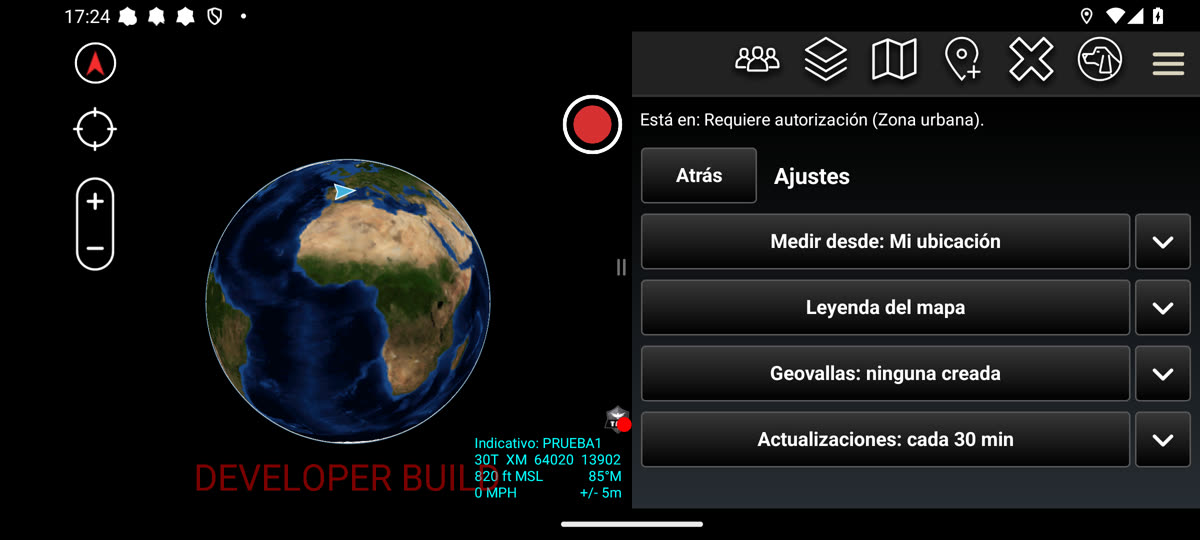
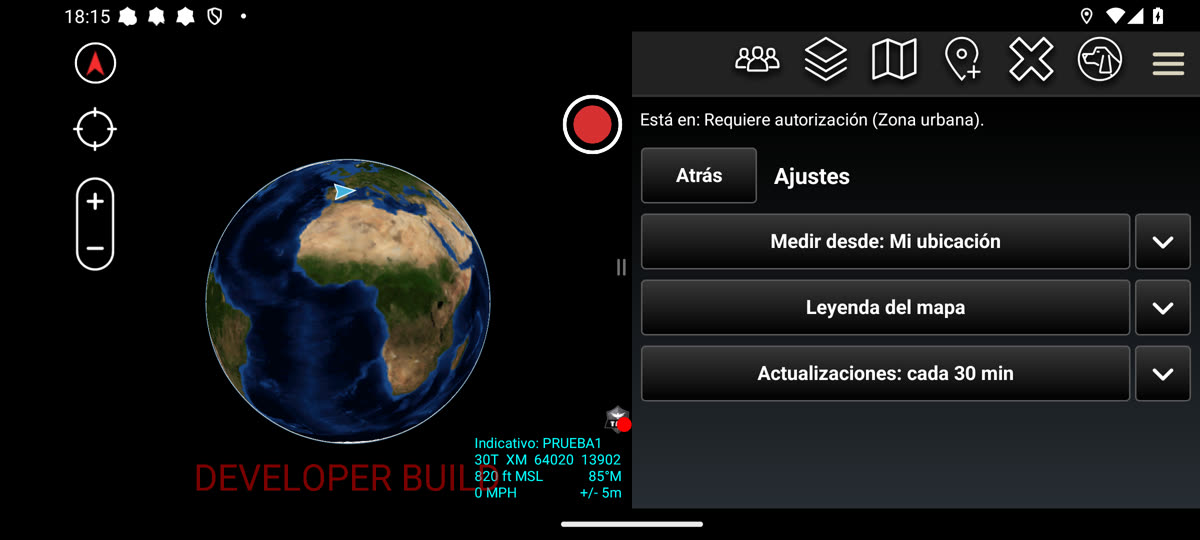
Ocultar geovallas (no hay capa española que las cree) y quitarlas de la documentación; README con formato tak.gov

diff --git a/app/src/main/java/com/carlosgt/atak/aerozona/ui/TfrPane.java b/app/src/main/java/com/carlosgt/atak/aerozona/ui/TfrPane.java
@@ -157,6 +157,13 @@ public class TfrPane implements TfrManager.Listener {
 
         fencesFold = new Fold(settings, R.id.fold_fences_head, R.id.fold_fences_chev,
                 R.id.fold_fences_body, "fold.fences");
+        // AeroZona 1.0: geofences were made from FAA TFR details, which are retired, and
+        // no Spanish layer offers one yet, so the row would only ever say "none".
+        for (int id : new int[] { R.id.fold_fences_row, R.id.fold_fences_body }) {
+            final View v = settings.findViewById(id);
+            if (v != null)
+                v.setVisibility(View.GONE);
+        }
         fromFold = new Fold(settings, R.id.fold_from_head, R.id.fold_from_chev,
                 R.id.fold_from_body, "fold.from");
         keyFold = new Fold(settings, R.id.fold_key_head, R.id.fold_key_chev,

diff --git a/docs/USER_GUIDE.md b/docs/USER_GUIDE.md
@@ -23,12 +23,11 @@ All releases: https://github.com/carlosgt91/aerozona/releases
   - [8. Condiciones METAR](#8-condiciones-metar)
   - [9. Meteorología AEMET](#9-meteorología-aemet)
   - [10. Ajustes del panel](#10-ajustes-del-panel)
-  - [11. Geovallas de alerta](#11-geovallas-de-alerta)
-  - [12. Plan de vuelo UAS](#12-plan-de-vuelo-uas)
-  - [13. Ajustes del planificador](#13-ajustes-del-planificador)
-  - [14. ENAIRE, AESA y tramitación](#14-enaire-aesa-y-tramitación)
-  - [15. Operación sin datos o sin red](#15-operación-sin-datos-o-sin-red)
-  - [16. Avisos y fuentes oficiales](#16-avisos-y-fuentes-oficiales)
+  - [11. Plan de vuelo UAS](#11-plan-de-vuelo-uas)
+  - [12. Ajustes del planificador](#12-ajustes-del-planificador)
+  - [13. ENAIRE, AESA y tramitación](#13-enaire-aesa-y-tramitación)
+  - [14. Operación sin datos o sin red](#14-operación-sin-datos-o-sin-red)
+  - [15. Avisos y fuentes oficiales](#15-avisos-y-fuentes-oficiales)
 - [English](#english)
   - [1. Overview](#1-overview)
   - [2. Before You Start](#2-before-you-start)
@@ -40,12 +39,11 @@ All releases: https://github.com/carlosgt91/aerozona/releases
   - [8. METAR Conditions](#8-metar-conditions)
   - [9. AEMET Weather](#9-aemet-weather)
   - [10. Panel Settings](#10-panel-settings)
-  - [11. Alert Geofences](#11-alert-geofences)
-  - [12. UAS Flight Plan](#12-uas-flight-plan)
-  - [13. Planner Settings](#13-planner-settings)
-  - [14. ENAIRE, AESA and Coordination](#14-enaire-aesa-and-coordination)
-  - [15. Missing Data and Offline Operation](#15-missing-data-and-offline-operation)
-  - [16. Official Sources and Legal Notices](#16-official-sources-and-legal-notices)
+  - [11. UAS Flight Plan](#11-uas-flight-plan)
+  - [12. Planner Settings](#12-planner-settings)
+  - [13. ENAIRE, AESA and Coordination](#13-enaire-aesa-and-coordination)
+  - [14. Missing Data and Offline Operation](#14-missing-data-and-offline-operation)
+  - [15. Official Sources and Legal Notices](#15-official-sources-and-legal-notices)
 
 ---
 
@@ -167,21 +165,12 @@ Accesible desde el botón **Ajustes** del panel principal:
 
 - **Medir desde:** calcula distancias y la línea «Está en:» desde su posición GPS o desde un punto designado en el mapa.
 - **Leyenda del mapa:** relación completa de colores y símbolos activos en cartografía.
-- **Geovallas:** gestión y comprobación de alertas perimetrales creadas.
 - **Actualizaciones:** frecuencia de renovación en segundo plano de restricciones y datos meteorológicos.
 
 ---
 
-### 11. Geovallas de alerta
 
-- **Creación desde la ficha.** Puede activar una geovalla en ATAK desde la ficha de cualquier zona o restricción para recibir avisos al franquear sus límites.
-- **Límites publicados.** Permite ceñirse a las altitudes publicadas de la zona o establecer la alerta sobre la proyección en el suelo con independencia de la altitud.
-- **Copia estática puntual.** La geovalla es una copia fija del contorno en el instante en que se crea. Si la restricción cambia de horario o expira, la geovalla permanece en ATAK hasta que usted la elimine.
-- **Gestión en Ajustes.** En *Ajustes > Geovallas* se listan las geovallas activas y el sistema avisa si alguna ya no coincide con una restricción vigente, ofreciendo un botón para retirarla rápidamente.
-
----
-
-### 12. Plan de vuelo UAS
+### 11. Plan de vuelo UAS
 
 ![Planificador de vuelo UAS y análisis de terreno](user_manual/az/plan.jpg)
 
@@ -196,7 +185,7 @@ Pantalla propia abierta desde el botón **Plan de vuelo UAS**. Responde a dos cu
 
 ---
 
-### 13. Ajustes del planificador
+### 12. Ajustes del planificador
 
 ![Ajustes del planificador de vuelo](user_manual/az/plan_ajustes.jpg)
 
@@ -210,7 +199,7 @@ Todos los valores configurados se conservan entre sesiones sin necesidad de cone
 
 ---
 
-### 14. ENAIRE, AESA y tramitación
+### 13. ENAIRE, AESA y tramitación
 
 ![Tramitación oficial ENAIRE y AESA](user_manual/az/plan_enaire.jpg)
 
@@ -224,7 +213,7 @@ El botón **ENAIRE / AESA** conecta con las plataformas oficiales:
 
 ---
 
-### 15. Operación sin datos o sin red
+### 14. Operación sin datos o sin red
 
 - **Sin datos de elevación (DTED).** El planificador lee los modelos de elevación DTED alojados en ATAK. Si faltan datos en la zona, el complemento lo advierte abiertamente y deja el terreno sin pintar, evitando calcular techos irreales sin datos. Cargue la cartografía DTED para habilitar el análisis de relieve.
 - **Sin conexión de red.** Las zonas UAS y el espacio aéreo descargados permanecen 7 días en memoria. Si una consulta falla o no hay señal, el mapa no se borra.
@@ -232,7 +221,7 @@ El botón **ENAIRE / AESA** conecta con las plataformas oficiales:
 
 ---
 
-### 16. Avisos y fuentes oficiales
+### 15. Avisos y fuentes oficiales
 
 - **Carácter consultivo.** Los datos mostrados reflejan la información pública en el momento de su descarga. No sustituyen los avisos aeronáuticos oficiales, el AIP ni las autorizaciones de coordinación con proveedores ATS o AESA.
 - **Fuentes oficiales:** AIP España, ENAIRE Drones (`drones.enaire.es`), Ícaro XXI para NOTAM y portal de AESA (`seguridadaerea.gob.es`).
@@ -359,21 +348,12 @@ Accessed from the **Settings** ("Ajustes") button on the main pane:
 
 - **Measure from** ("Medir desde"): calculates distances and the "Está en:" status line from your GPS position or a selected map coordinate.
 - **Map key** ("Leyenda del mapa"): index of all active colors and layer symbols.
-- **Geofences** ("Geovallas"): oversee and manage active boundary alerts.
 - **Updates** ("Actualizaciones"): configure background refresh frequencies for restrictions and weather data.
 
 ---
 
-### 11. Alert Geofences
 
-- **Creation from details.** Create an ATAK geofence directly from any zone or restriction details sheet to trigger proximity alerts when crossing boundaries.
-- **Published limits.** Geofences can conform to published altitude floors and ceilings, or alert on ground footprint regardless of flight level.
-- **Static snapshot.** The geofence captures the boundary geometry at the exact instant of creation. If the restriction moves, changes hours, or expires, the geofence remains until manually deleted.
-- **Management.** Under *Settings > Geofences*, all created geofences are listed; the pane warns if a geofence no longer matches an active restriction and offers a quick removal option.
-
----
-
-### 12. UAS Flight Plan
+### 11. UAS Flight Plan
 
 ![UAS flight planner and terrain analysis](user_manual/az/plan.jpg)
 
@@ -388,7 +368,7 @@ Opened via **UAS Flight Plan** ("Plan de vuelo UAS"). Solves two vital questions
 
 ---
 
-### 13. Planner Settings
+### 12. Planner Settings
 
 ![Flight planner settings](user_manual/az/plan_ajustes.jpg)
 
@@ -402,7 +382,7 @@ All flight planner preferences persist across app restarts without network conne
 
 ---
 
-### 14. ENAIRE, AESA and Coordination
+### 13. ENAIRE, AESA and Coordination
 
 ![ENAIRE and AESA flight coordination links](user_manual/az/plan_enaire.jpg)
 
@@ -416,7 +396,7 @@ The **ENAIRE / AESA** button opens direct links to official flight portals:
 
 ---
 
-### 15. Missing Data and Offline Operation
+### 14. Missing Data and Offline Operation
 
 - **Missing elevation data (DTED).** The planner depends on DTED elevation loaded in ATAK. When missing for an area, the plugin states this clearly and leaves terrain unpainted rather than computing erroneous altitudes. Load DTED elevation files to enable terrain analysis.
 - **Offline operation.** Downloaded UAS zones and airspace stay on the device for 7 days. If network connectivity drops or a fetch fails, existing map features remain intact.
@@ -424,7 +404,7 @@ The **ENAIRE / AESA** button opens direct links to official flight portals:
 
 ---
 
-### 16. Official Sources and Legal Notices
+### 15. Official Sources and Legal Notices
 
 - **Advisory nature.** All presented data is strictly for situational awareness and flight planning assistance. It does not replace official aeronautical publications or mandatory air coordination with ATS providers or AESA.
 - **Official sources:** AIP España, ENAIRE Drones (`drones.enaire.es`), Ícaro XXI for NOTAMs, and AESA (`seguridadaerea.gob.es`).

diff --git a/README.md b/README.md
@@ -65,13 +65,6 @@ Junto a las capas cartográficas, AeroZona incluye:
                             viento, temperatura, QNH en hPa y los textos originales
                             completos de los boletines METAR y TAF.
 
-  Geovallas de alerta       Creación de geovallas en ATAK directamente desde la
-                            ficha de cualquier zona o restricción para recibir
-                            avisos perimetrales. Permite alertar según las
-                            altitudes publicadas o sobre la proyección en el suelo.
-                            Constituyen copias estáticas en el instante de su
-                            creación y se gestionan desde Ajustes > Geovallas.
-
   Meteorología AEMET        Conexión directa con AEMET OpenData a través del botón
                             «Meteo». Requiere una clave API personal y gratuita
                             configurable en Ajustes de ATAK > Preferencias de
@@ -191,7 +184,7 @@ organismos titulares (ENAIRE, AEMET).
 Para colaborar o enviar informes, véase CONTRIBUTING.md.
 
 _________________________________________________________________
-PURPOSE AND CAPABILITIES (ENGLISH)
+PURPOSE AND CAPABILITIES
 
 AeroZona provides immediate aeronautical situational awareness for civil drone (UAS) operators and remote pilots in Spain: what airspace zones and restrictions coincide with your operating position, and what regulatory and operational conditions apply to the column of air you are in.
 
@@ -244,12 +237,6 @@ Alongside the map layers, AeroZona includes:
                             wind, temperature, QNH in hPa, and complete raw METAR
                             and TAF bulletins.
 
-  Alert geofences           Create ATAK geofences directly from any zone or
-                            restriction sheet to receive proximity alerts. Conforms
-                            to published altitude limits or ground footprint.
-                            Geofences capture a static snapshot at creation time and
-                            are managed under Settings > Geofences.
-
   AEMET weather             Direct connection to AEMET OpenData via the "Meteo"
                             button. Requires a free personal API key configured in
                             ATAK Settings > Tool Preferences > AeroZona > AEMET
@@ -281,6 +268,20 @@ Alongside the map layers, AeroZona includes:
 All downloaded data is retained locally on device for 7 days and remains fully usable offline. Switching a layer off hides it without removing data.
 
 _________________________________________________________________
+STATUS
+
+Version 1.0, for ATAK-CIV 5.8.0. First release of AeroZona, a Spanish version
+of TAKWERX's AirAware 0.8: every US layer and data source was removed and
+replaced with ENAIRE UAS zones, UAS NOTAMs and airspace, METAR/TAF, AEMET
+weather and a UAS flight planner adapted to Spanish rules. Interface and manual
+in Spanish and English.
+
+_________________________________________________________________
+POINT OF CONTACTS
+
+https://github.com/carlosgt91/aerozona/issues
+
+_________________________________________________________________
 DATA SOURCES AND OWNERSHIP
 
 AeroZona retrieves and displays public information from the following official sources:
@@ -301,7 +302,7 @@ AeroZona retrieves and displays public information from the following official s
                             local forecast mapping (CC0).
 
 _________________________________________________________________
-ADVISORY DISCLAIMER AND OFFICIAL SOURCES
+DEVELOPER NOTES
 
 All information displayed by AeroZona is strictly advisory and intended for situational awareness assistance. AeroZona is not an official aeronautical source and makes no warranty of accuracy or real-time timeliness. It does not constitute a flight clearance or replace mandatory pilot verifications.
 
@@ -313,13 +314,23 @@ Always verify current conditions through Spain's official aeronautical publicati
   AESA                      State Aviation Safety Agency (seguridadaerea.gob.es).
 
 _________________________________________________________________
-PRIVACY AND NETWORK
+PORTS REQUIRED
 
-Outbound HTTPS (TCP 443) only. AeroZona opens no listening ports, accepts no inbound connections, and transmits no data to any TAK Server or external entities.
+Outbound HTTPS (TCP 443) only. AeroZona opens no listening port, accepts no
+inbound connection, and sends nothing to a TAK Server.
 
-The plugin acts strictly as a reader: it transmits no telemetry, no operator location, and no device identifiers. Network activity is limited to direct HTTPS GET requests for public data from ENAIRE, aviationweather.gov, and (with the user's personal key) AEMET OpenData.
+  servais.enaire.es         ENAIRE: UAS geographic zones, UAS NOTAMs and
+                            airspace (public ArcGIS services, no credential).
 
-When network connectivity is unavailable, AeroZona continues operating from cached data and explicitly indicates in its status line any source that could not be refreshed.
+  aviationweather.gov       METAR observations and TAF forecasts.
+
+  opendata.aemet.es         AEMET OpenData, only when the user has entered their
+                            own API key; the key is sent only to AEMET.
+
+The plugin is a reader. It sends no telemetry and no identifying information.
+The map area being viewed is sent to ENAIRE and aviationweather.gov as a
+bounding box, and the nearest municipality code to AEMET, as the queries need.
+Without network the plugin keeps working on what the device holds and says so.
 
 _________________________________________________________________
 EQUIPMENT REQUIRED
@@ -331,6 +342,12 @@ EQUIPMENT REQUIRED
                             ATAK (DTED2 or finer). If elevation data is missing for
                             an area, the plugin states this clearly and avoids
                             unverified computations.
+
+_________________________________________________________________
+EQUIPMENT SUPPORTED
+
+No external hardware. The flight planner uses the device's own position and
+the elevation data loaded in ATAK.
 
 _________________________________________________________________
 COMPILATION
@@ -345,7 +362,7 @@ local.properties must define sdk.path pointing to the ATAK-CIV SDK matching ext.
 The ATAK-CIV SDK distributed by tak.gov is never committed to git (its license prohibits redistributing main.jar, atak.apk, atak-gradle-takdev.jar, and the debug keystore).
 
 _________________________________________________________________
-CREDITS AND LICENSE
+LICENSE
 
 AeroZona es una versión modificada de AirAware de TAKWERX (https://github.com/takwerx/air-aware).
 
